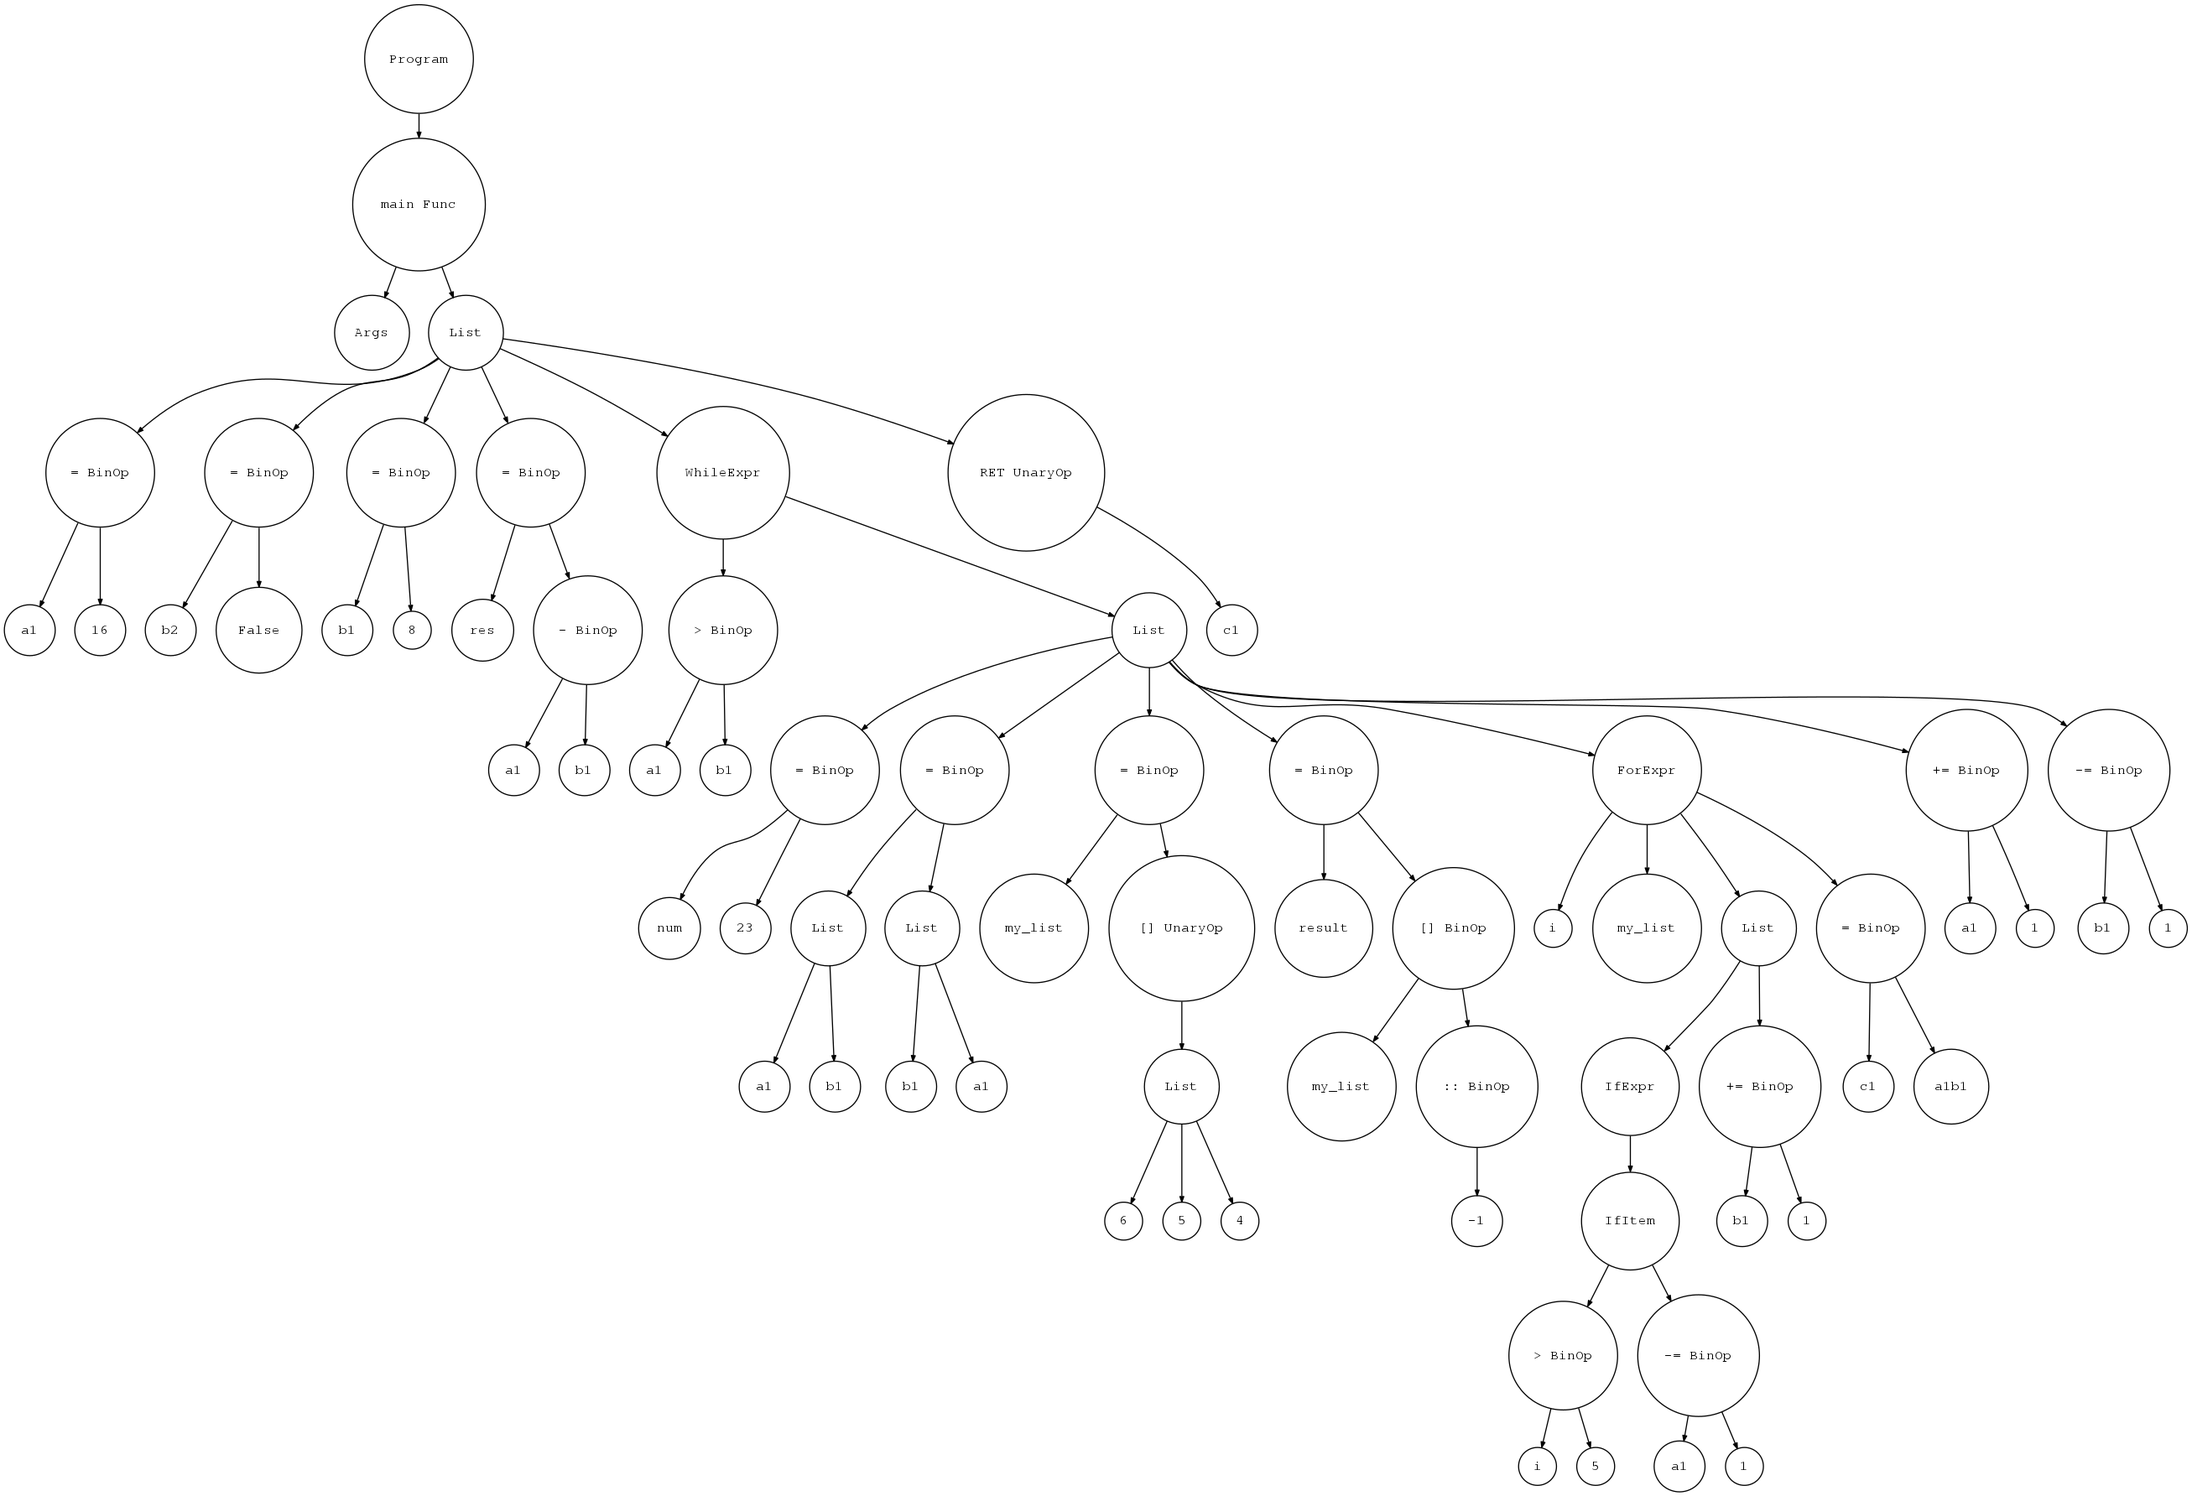
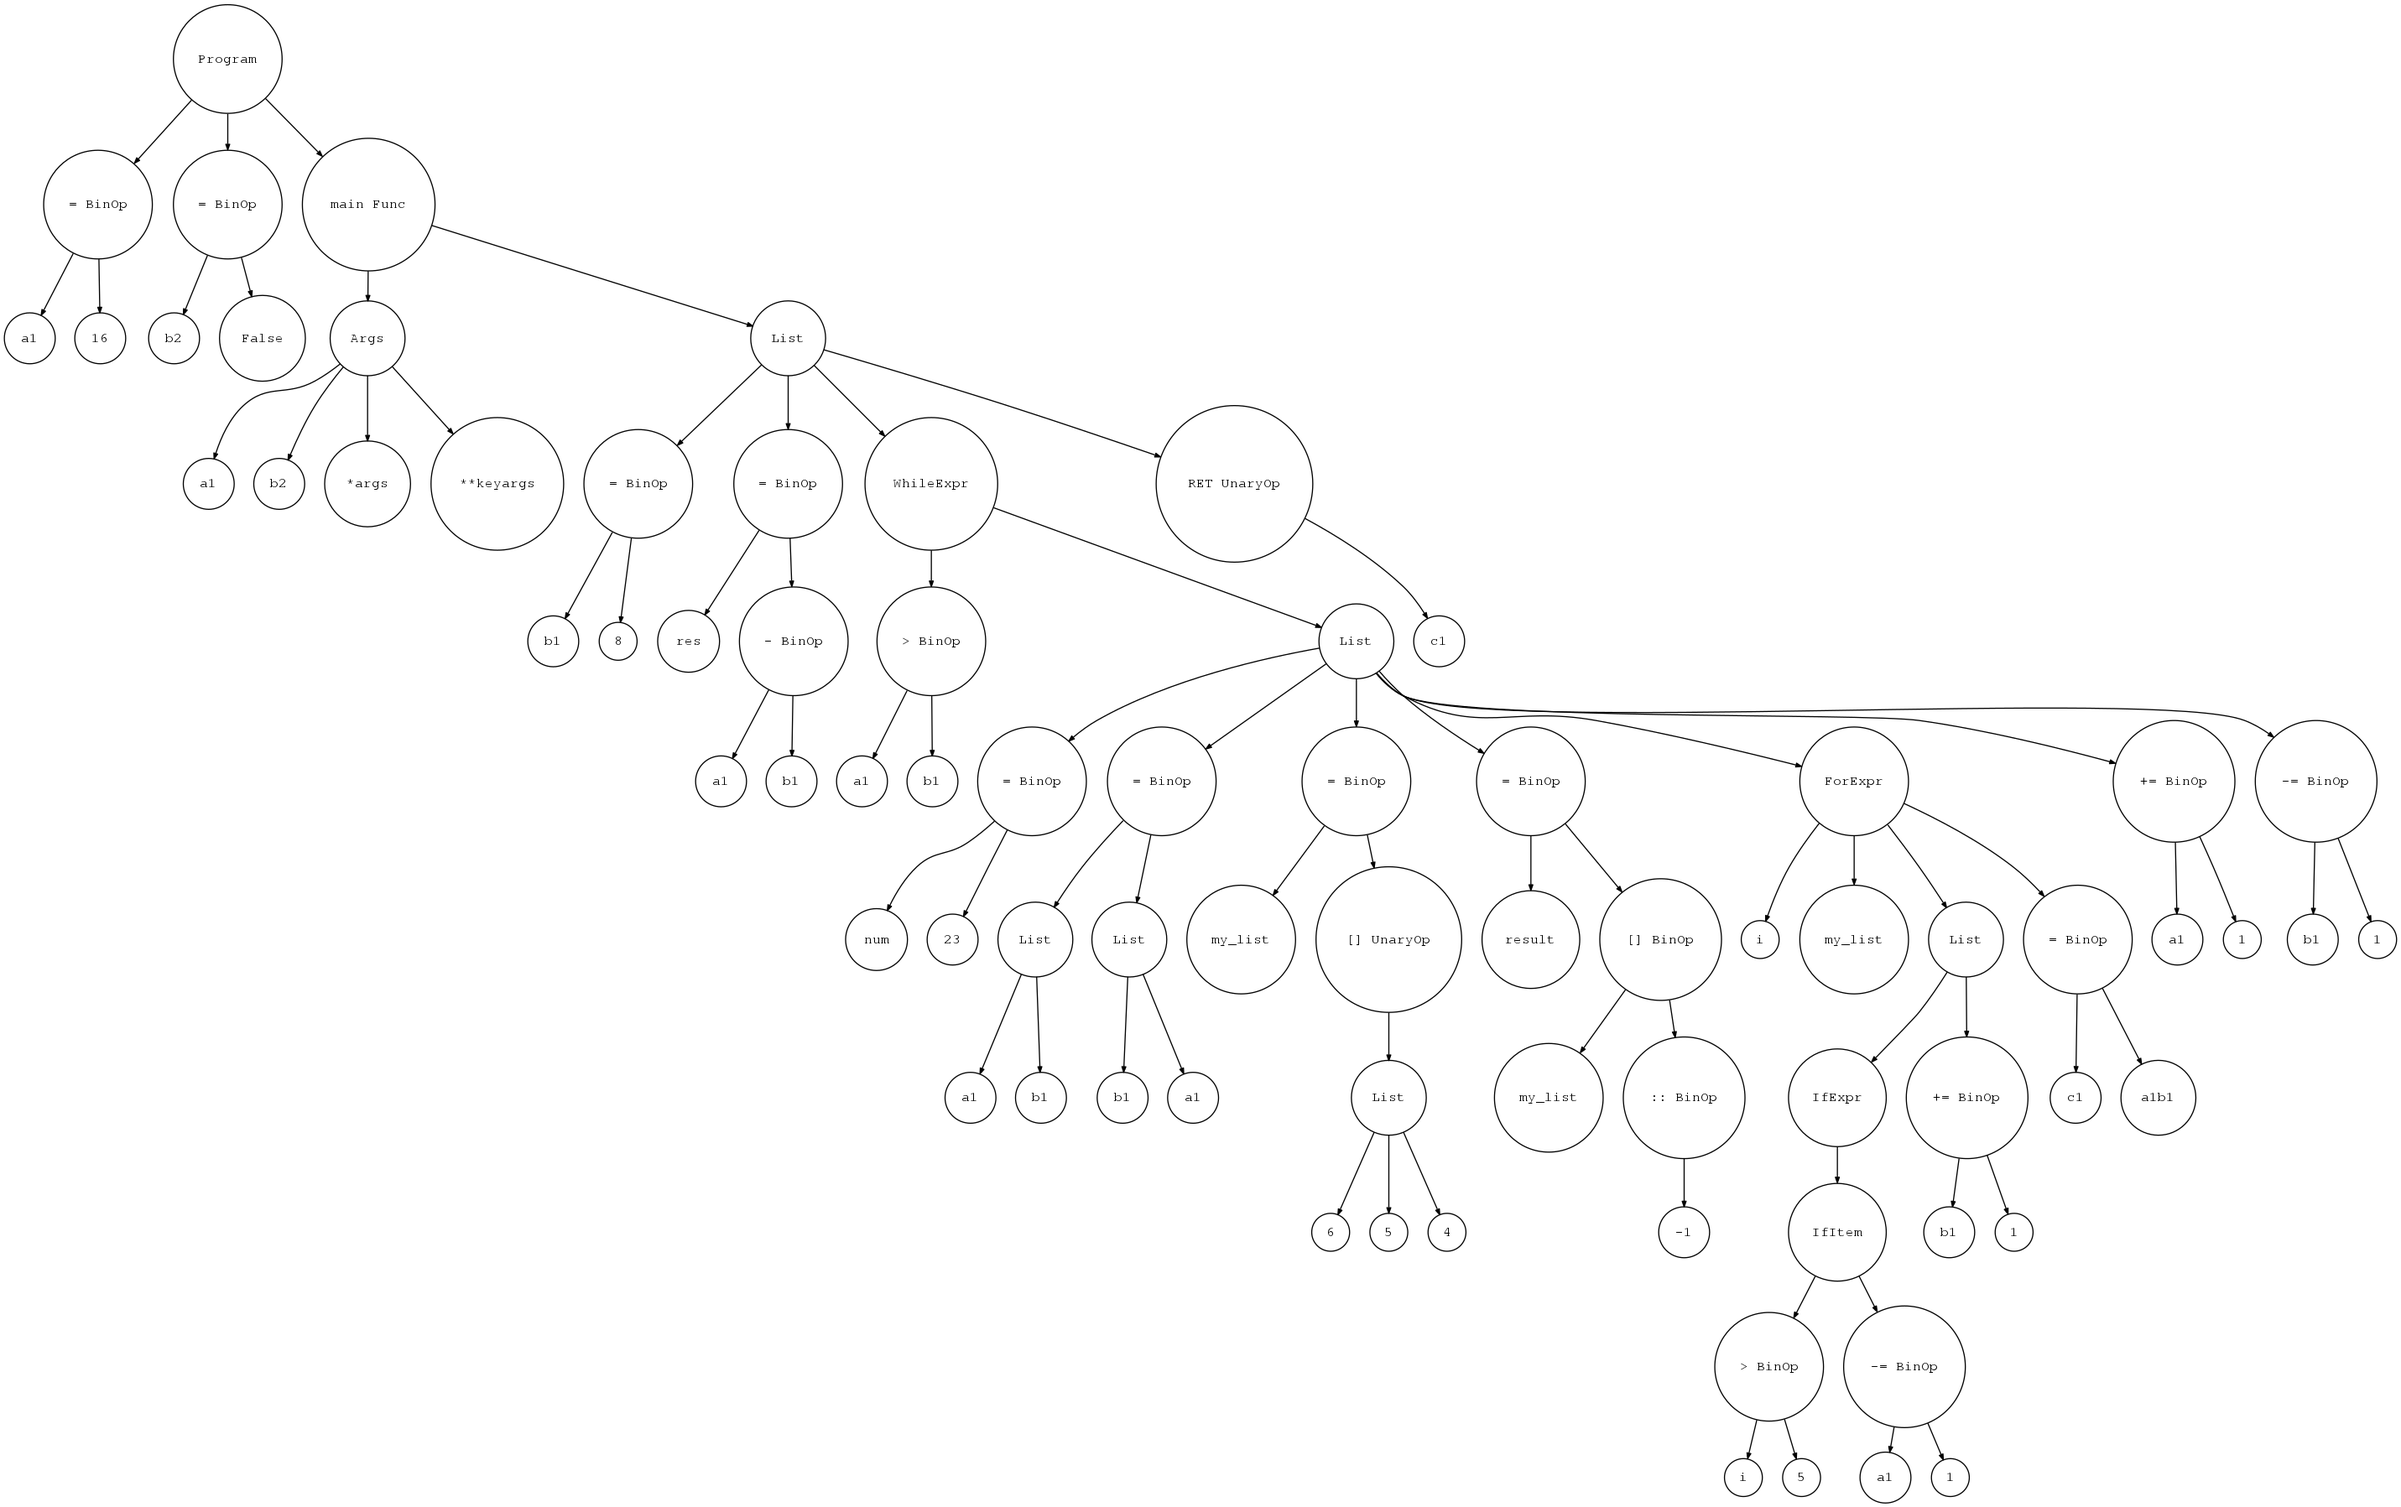
修改属性错误

diff --git a/parser.py b/parser.py
@@ -754,24 +754,24 @@ class Parser(object):
         if self.current_token.type == MUL:
             self.eat(MUL)
             args = Args()
-            if self.current_token == ID:
-                arg = Arg(self.typdef(), 1)
-                args.tokens.append(arg)
-            while self.current_token == COMMA:
+            if self.current_token.type == ID:
+                arg = Arg(self.tfpdef(), 1)
+                args.args.append(arg)
+            while self.current_token.type == COMMA:
                 self.eat(COMMA)
                 if self.current_token.type == ID:
                     arg = self.tfpdef()
                     if self.current_token.type == ASSIGN:
                         self.eat(ASSIGN)
-                        args.tokens.append(Arg(arg, self.test()))
+                        args.args.append(Arg(arg, self.test()))
                     else:
-                        args.tokens.append(Arg(arg, 0))
+                        args.args.append(Arg(arg, 0))
                 elif self.current_token.type == POWER:
-                    args.tokens.append(self.typedargslist())
+                    args.args.append(self.typedargslist())
                     break
-            if len(args.tokens) == 0:
+            if len(args.args) == 0:
                 return Arg(Token(MUL, '*'))
-            return args if len(args) > 1 else arg
+            return args if len(args.args) > 1 else arg
 
         """
         tfpdef ['=' test] (',' tfpdef ['=' test])*
@@ -795,24 +795,24 @@ class Parser(object):
             arg = Arg(arg, 0)
 
         args = Args()
-        args.token.append(arg)
+        args.args.append(arg)
         if self.current_token.type == COMMA:
             while self.current_token.type == COMMA:
                 self.eat(COMMA)
                 if self.current_token.type == ID:
                     arg = self.tfpdef()
                     if self.current_token.type == ASSIGN:
-                        args.tokens.append(Arg(arg, self.test()))
+                        args.args.append(Arg(arg, self.test()))
                     else:
-                        args.tokens.append(Arg(arg, 0))
+                        args.args.append(Arg(arg, 0))
                 else:
                     arg = self.typedargslist()
-                    if hasattr(arg, 'tokens'):
-                        args.tokens.extend(arg.tokens)
+                    if hasattr(arg, 'args'):
+                        args.args.extend(arg.args)
                     else:
-                        args.tokens.append(arg)
+                        args.args.append(arg)
                     break
-        return args if len(args.tokens) > 1 else arg
+        return args if len(args.args) > 1 else arg
 
     def parameters(self):
         # '(' [typedargslist] ')'

diff --git a/dot.py b/dot.py
@@ -138,9 +138,9 @@ class VisitNode(object):
         self.num += 1
         node_token = ''.join(['node', str(self.num)])
         if node.default == 1:
-            token = ''.join([node_token, ' [label="*"]'])
+            token = ''.join([node_token, ' [label="*', node.name.value, '"]'])
         elif node.default == 2:
-            token = ''.join([node_token, ' [label="**"]'])
+            token = ''.join([node_token, ' [label="**', node.name.value, '"]'])
         else:
             token = ''.join([node_token, ' [label="', node.name.value, '"]'])
         self.content += ' '*4 + token + '\n'

diff --git a/test2.py b/test2.py
@@ -2,10 +2,11 @@
 # -*- coding: utf-8 -*-
 # test2.py
 
+a1 = 1 + 3*4-5/4+4 % 5
+b2 = 4 > 5
 
-def main():
-    a1 = 1 + 3*4-5/4+4 % 5
-    b2 = 4 > 5
+
+def main(a1, b2, *args, **keyargs):
     b1 = 2**3
     res = a1 - b1
 
